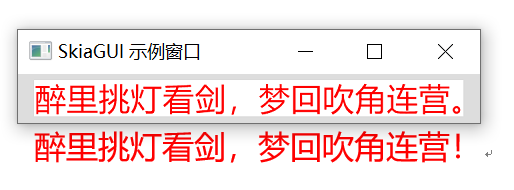
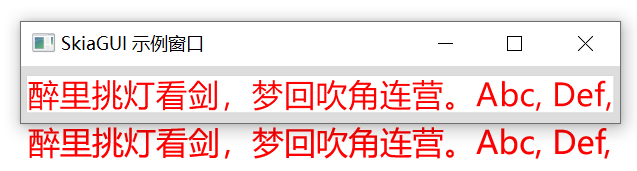
en

diff --git a/Demo/TextDemo.cpp b/Demo/TextDemo.cpp
@@ -22,7 +22,7 @@ TextDemo::~TextDemo()
 void TextDemo::label()
 {
     auto ele = new Label();
-    ele->setText(u8R"(醉里挑灯看剑，梦回吹角连营。)");
+    ele->setText(u8R"(醉里挑灯看剑，梦回吹角连营。Abc, Def,)");
     ele->setFont("Microsoft YaHei");//STSong
     ele->setFontSize(21);
     ele->setBackgroundColor(0xFFFFFFFF);

diff --git a/README.md b/README.md
@@ -85,6 +85,6 @@ win->addChild(ele);
 
 ## 文本
 
-文本清晰度对比（与Workd）：
+文本清晰度对比（与Word）：
 
 ![](Doc/TextClear.png "文本清晰度对比")
